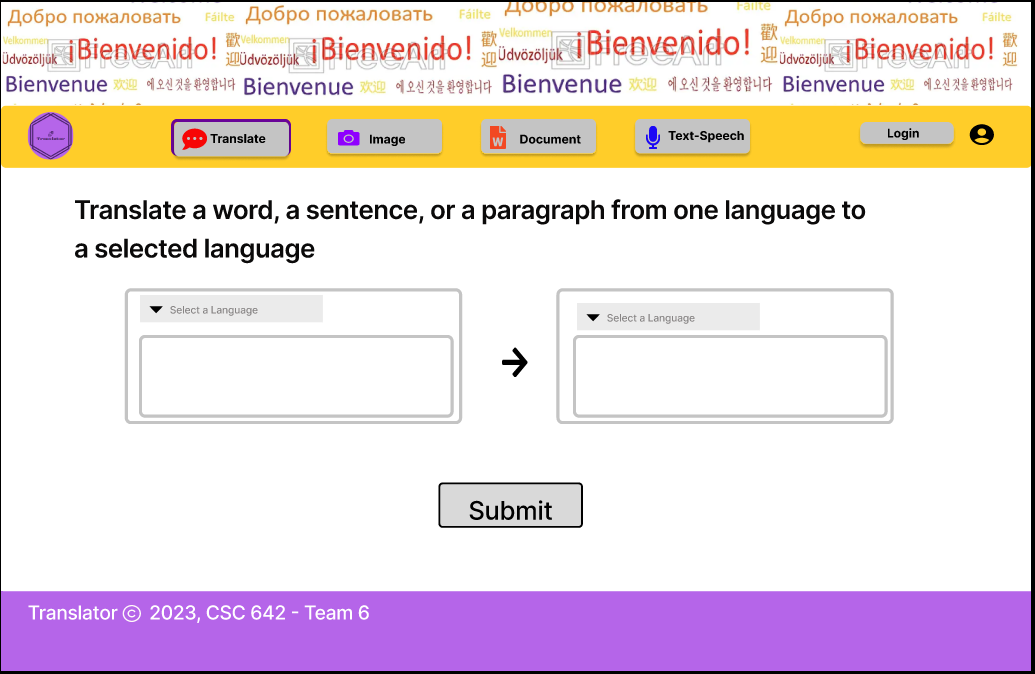
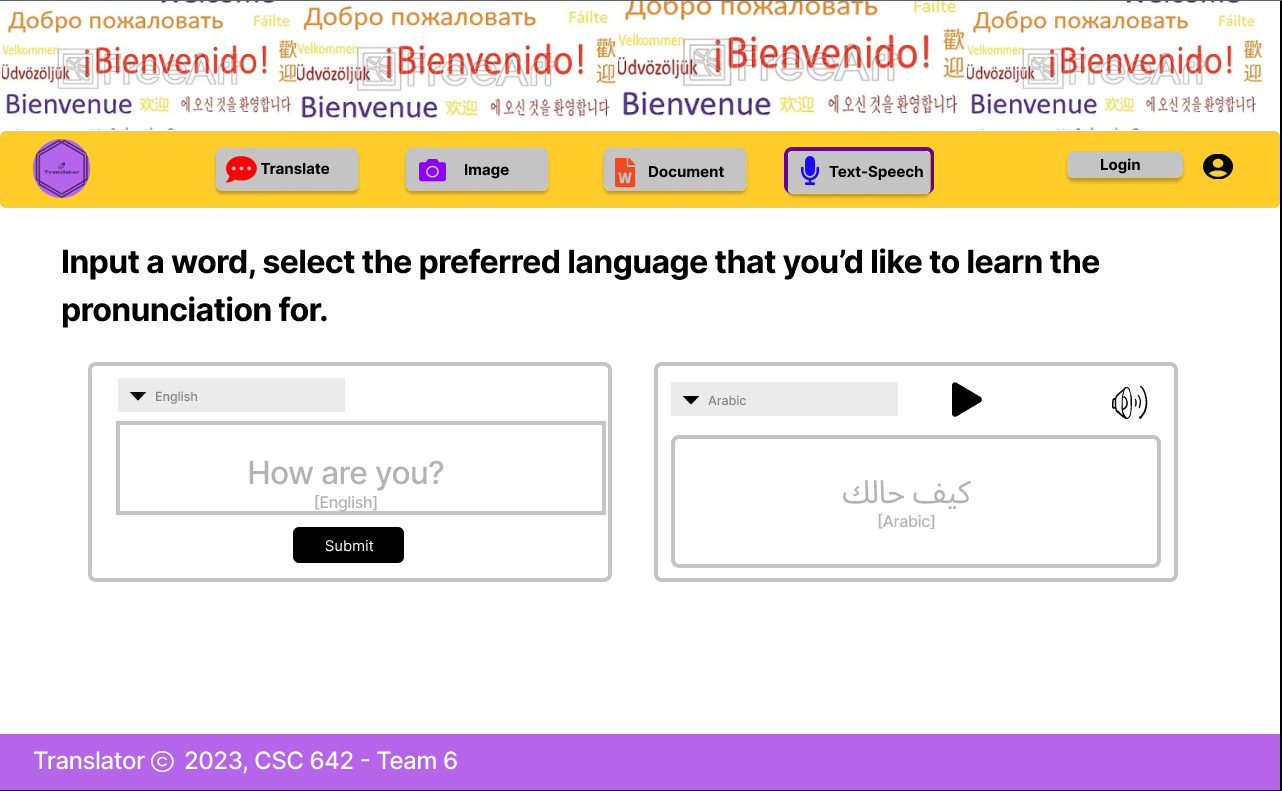
GITBOOK-23: change request with no subject merged in GitBook

Changed region(s): [[0.0, 0.0, 1.0, 1.0]]

diff --git a/prototyping.md b/prototyping.md
@@ -46,7 +46,7 @@ Improvement: Added 2-step procedure for uploading an image, which shows a folder
 
 <div align="left">
 
-<figure><img src=".gitbook/assets/image (2).png" alt="" width="375"><figcaption></figcaption></figure>
+<figure><img src=".gitbook/assets/image (2) (2).png" alt="" width="375"><figcaption></figcaption></figure>
 
  
 
@@ -54,11 +54,65 @@ Improvement: Added 2-step procedure for uploading an image, which shows a folder
 
  
 
-<figure><img src=".gitbook/assets/image (4).png" alt="" width="375"><figcaption></figcaption></figure>
+<figure><img src=".gitbook/assets/image (4) (1).png" alt="" width="375"><figcaption></figcaption></figure>
 
  
 
 <figure><img src=".gitbook/assets/image (3).png" alt="" width="375"><figcaption></figcaption></figure>
+
+</div>
+
+4: The interactive components missing in our Document translation page.
+
+Improvement: Added interactive components to make it feel like you're uploading a document, selecting a language to translate it into, and downloading the file.  From there you can click on the downloaded file to open up the document, clicking on the document will exit it out, and clicking on the X button on bottom right will close downloaded files pop-up footer.
+
+<div align="left">
+
+<figure><img src=".gitbook/assets/image (5).png" alt="" width="375"><figcaption></figcaption></figure>
+
+ 
+
+<figure><img src=".gitbook/assets/image (8).png" alt="" width="375"><figcaption></figcaption></figure>
+
+ 
+
+<figure><img src=".gitbook/assets/image (2).png" alt="" width="375"><figcaption></figcaption></figure>
+
+</div>
+
+<div align="left">
+
+<figure><img src=".gitbook/assets/image (12).png" alt="" width="375"><figcaption></figcaption></figure>
+
+ 
+
+<figure><img src=".gitbook/assets/image (4).png" alt="" width="375"><figcaption></figcaption></figure>
+
+ 
+
+<figure><img src=".gitbook/assets/image (7).png" alt="" width="375"><figcaption></figcaption></figure>
+
+</div>
+
+5: Interactive component wasn't quite there for text to speech page.
+
+Improvement: Added basic interaction so that you can select language, and clicking on the input box will create "How are you", clicking submit will bring up the translation.  We also added a play button which when clicked shows a sound wave which changes a couple times to show that the 'sound' is played.
+
+<div align="left">
+
+<figure><img src=".gitbook/assets/image (11).png" alt="" width="188"><figcaption></figcaption></figure>
+
+ 
+
+<figure><img src=".gitbook/assets/image (9).png" alt="" width="188"><figcaption></figcaption></figure>
+
+ 
+
+<figure><img src=".gitbook/assets/image (1).png" alt="" width="188"><figcaption></figcaption></figure>
+
+ 
+
+<figure><img src=".gitbook/assets/image (6).png" alt="" width="188"><figcaption></figcaption></figure>
 
 </div>
 
